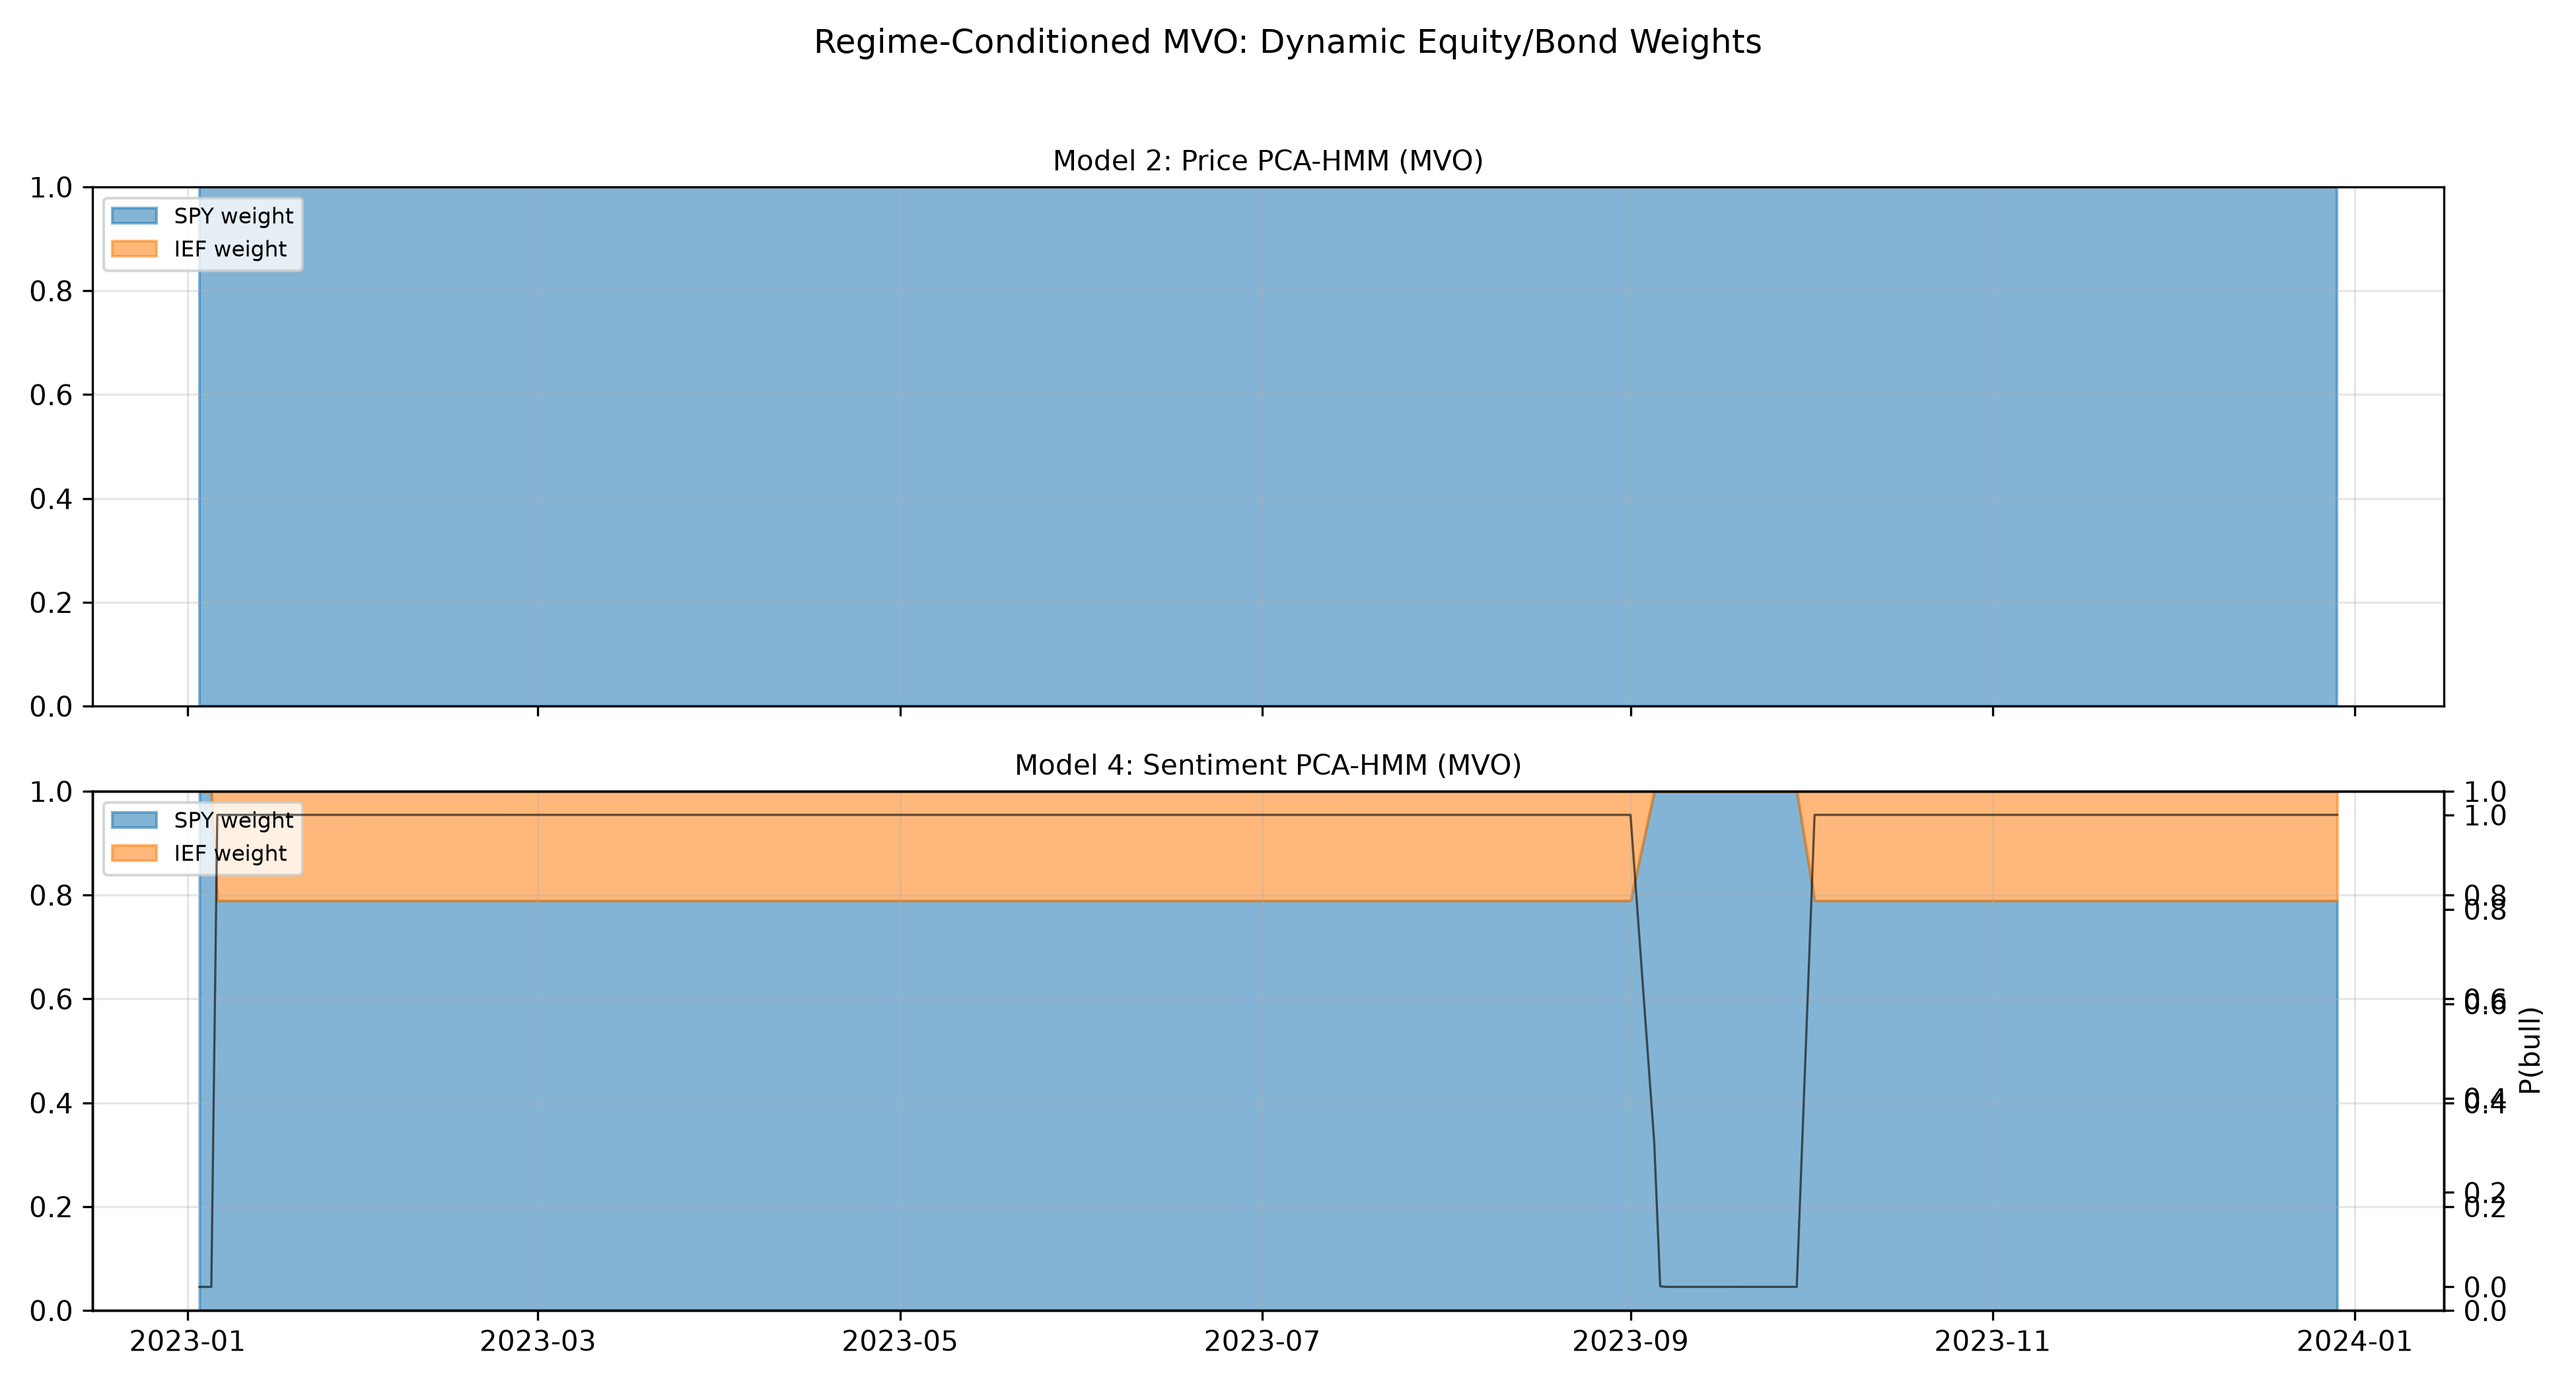
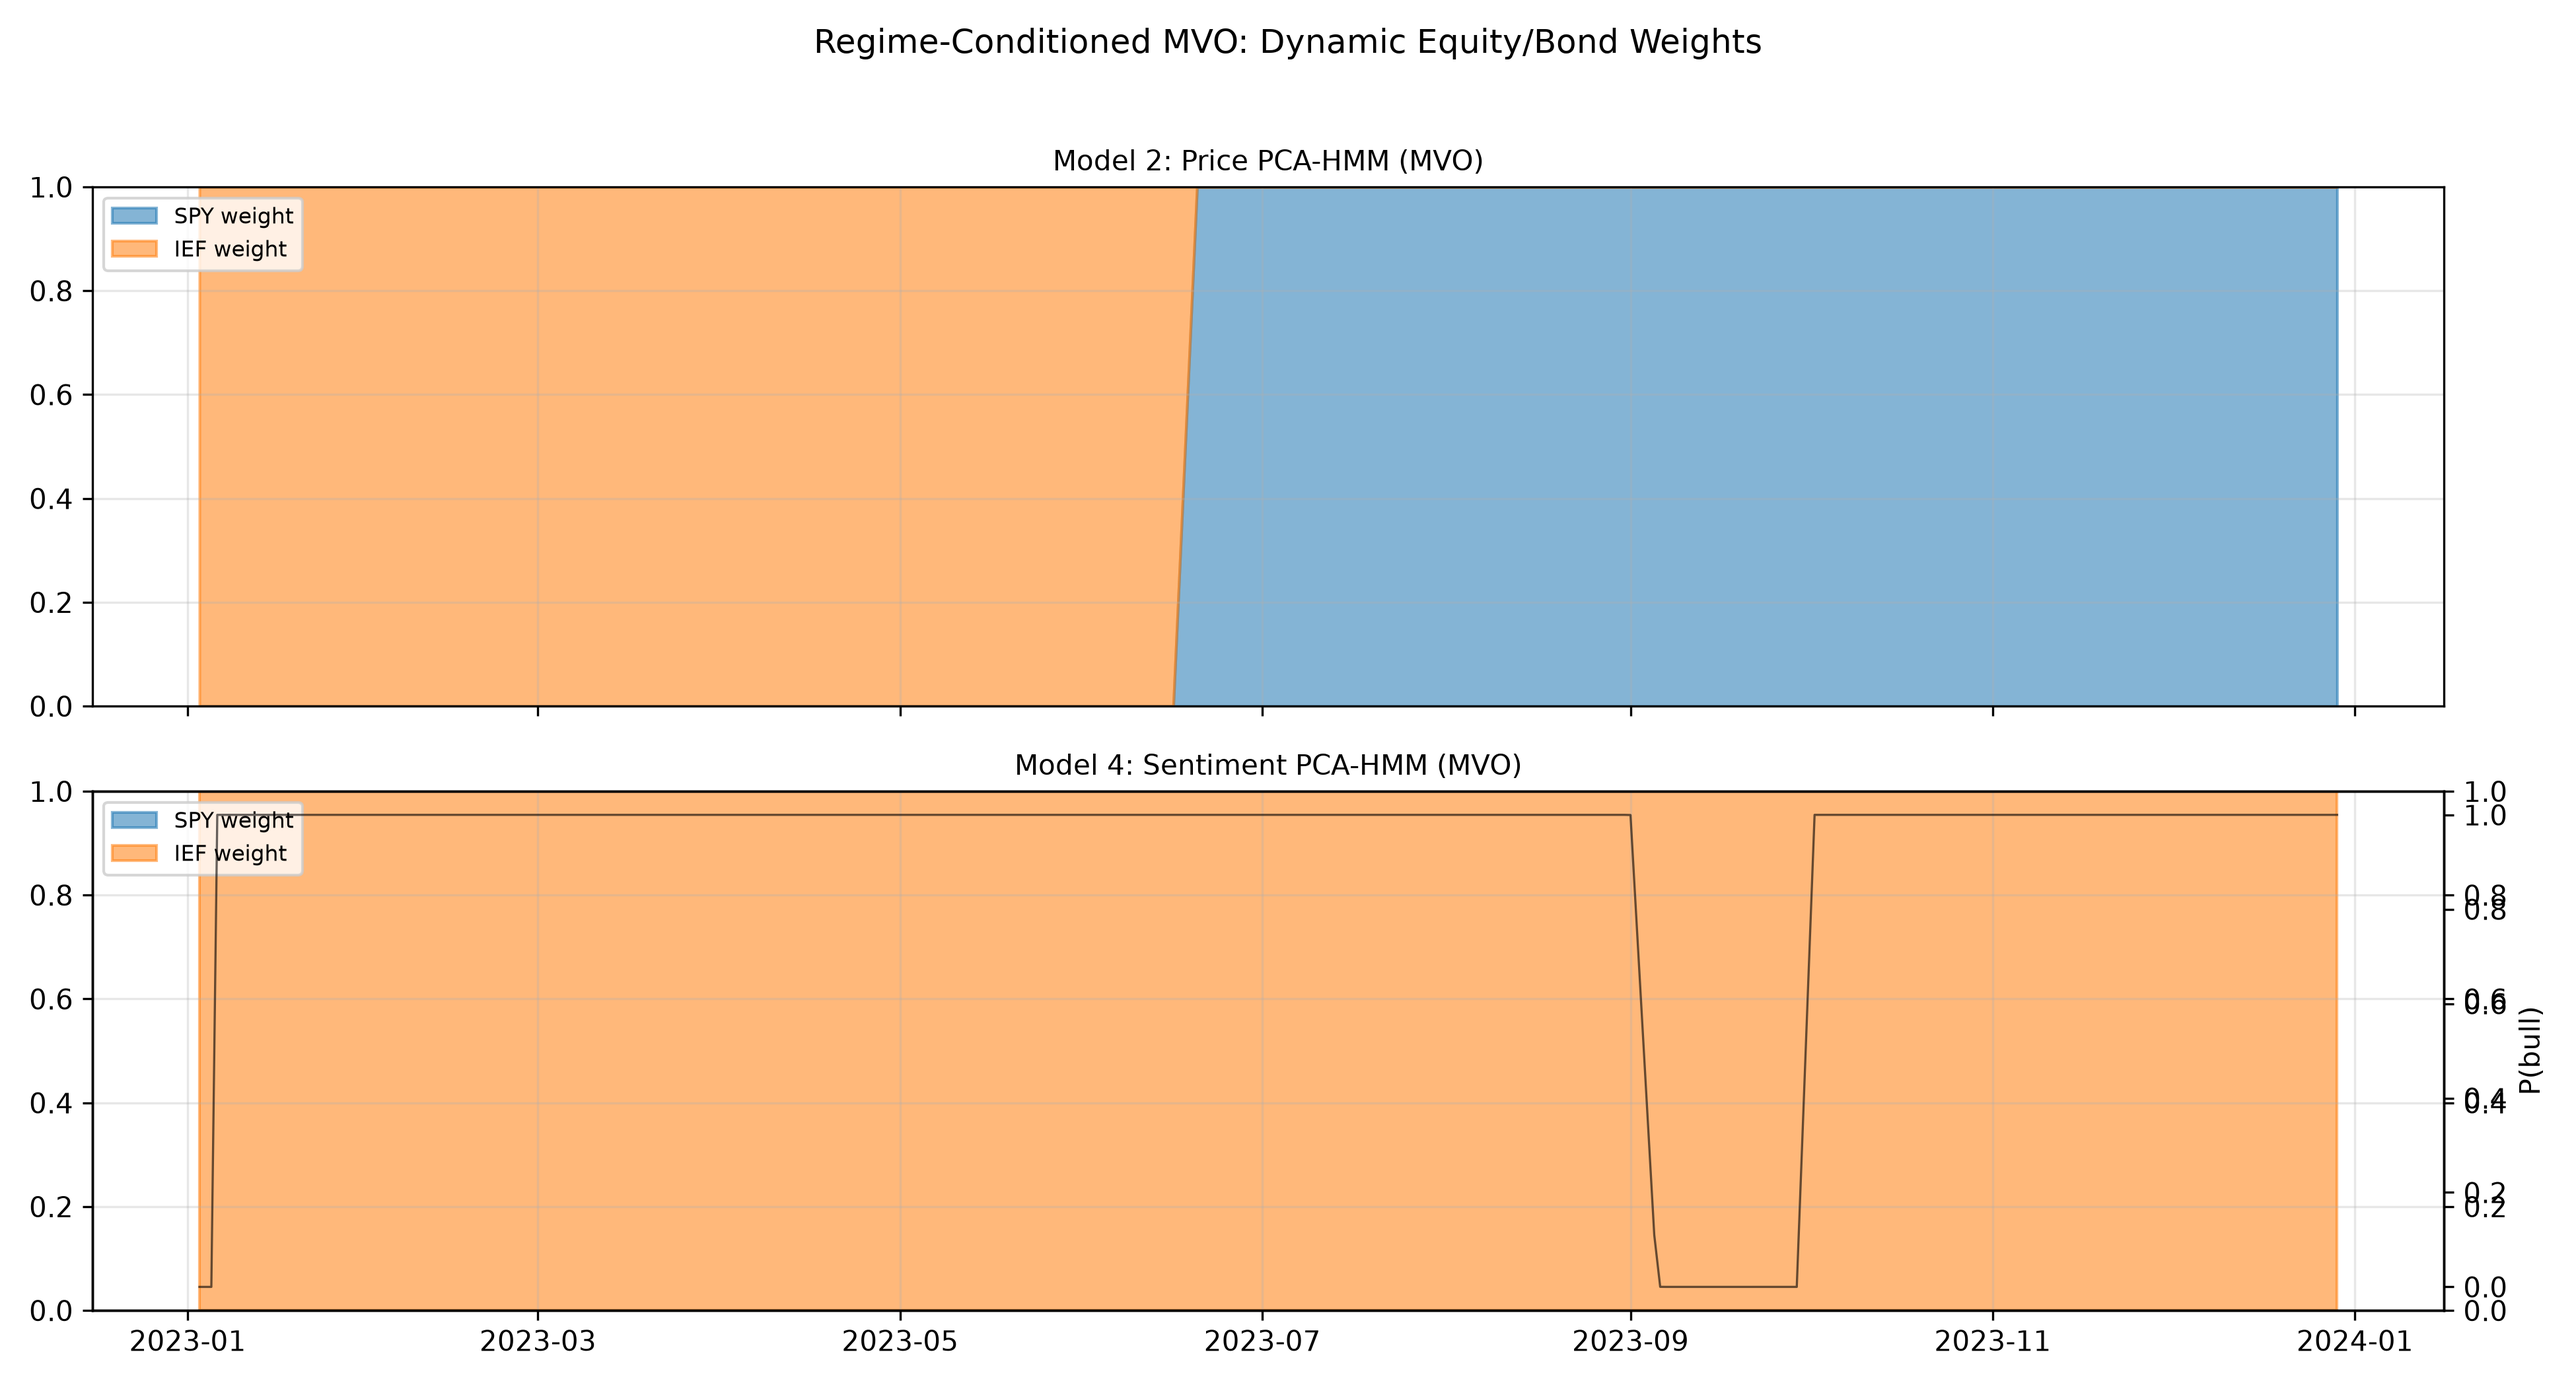
feat: disable article weighting mechanism (unweighted daily sentiment), fix pipeline FinMatcha features, refresh all tables

diff --git a/src/hmm_sentiment/daily_features.py b/src/hmm_sentiment/daily_features.py
@@ -47,18 +47,31 @@ def daily_weighted_sentiment(s_raw, weights):
     return float(np.sum(s_raw * weights) / (np.sum(weights) + 1e-6))
 
 
-def build_daily_news_features(articles_scored, trading_days):
+def build_daily_news_features(articles_scored, trading_days, weighted=None):
     """Aggregate scored articles to daily features aligned on `trading_days`.
 
     Required article columns: trading_date, S_raw, confidence, importance.
     Output columns: sent_w, sent_w_ema5, hi_imp_volume, sent_disp, n_articles.
+
+    `weighted` (default: config.WEIGHTED_SENTIMENT) selects the aggregation:
+      - True: S_t = sum(S_raw_i * C_i * I_i) / (sum C_i * I_i + 1e-6)
+      - False: plain unweighted mean of S_raw (current default — the article
+        weighting mechanism is disabled pending importance calibration; all
+        scores stay cached and the mechanism is one flag away).
     """
+    from . import config as _config
     from .scoring import article_weights
+
+    if weighted is None:
+        weighted = _config.WEIGHTED_SENTIMENT
 
     td = pd.DatetimeIndex(trading_days).normalize()
     arts = articles_scored.copy()
     arts["trading_date"] = pd.DatetimeIndex(arts["trading_date"]).normalize()
-    arts["weight"] = article_weights(arts["confidence"].values, arts["importance"].values)
+    if weighted:
+        arts["weight"] = article_weights(arts["confidence"].values, arts["importance"].values)
+    else:
+        arts["weight"] = 1.0
 
     # Dedupe identical headlines mapping to the SAME trading day: the corpus
     # dedupes on (headline, window), but overlapping GDELT windows refetch the

diff --git a/scripts/run_pipeline.py b/scripts/run_pipeline.py
@@ -21,6 +21,7 @@ from hmm_sentiment.config import (
     TABLE_DIR,
 )
 from hmm_sentiment.daily_features import build_daily_news_features, map_articles_to_trading_days
+from hmm_sentiment.fingpt_scoring import fingpt_scores
 from hmm_sentiment.finbert_scoring import score_articles
 from hmm_sentiment.llm_importance import rate_importance
 from hmm_sentiment.market_data import fetch_market_data
@@ -60,6 +61,10 @@ def build_features():
     v_scored = vader_scores(news)
     v_scored["importance"] = rate_importance(v_scored["headline"].tolist())  # all cached
 
+    log_step("FinMatcha scoring (baseline)")
+    f_scored = fingpt_scores(news)
+    f_scored["importance"] = rate_importance(f_scored["headline"].tolist())  # all cached
+
     log_step("close-safeguard mapping + daily features")
     merged = map_articles_to_trading_days(scored, market.index)
     daily_news = build_daily_news_features(merged, market.index)
@@ -72,6 +77,11 @@ def build_features():
 
     feat = market.join(daily_news, how="left")
     feat = feat.join(v_daily[["sent_w_v", "sent_w_ema5_v", "sent_disp_v"]], how="left")
+    f_merged = map_articles_to_trading_days(f_scored, market.index)
+    f_daily = build_daily_news_features(f_merged, market.index).rename(
+        columns={"sent_w": "sent_w_f", "sent_w_ema5": "sent_w_ema5_f", "sent_disp": "sent_disp_f"}
+    )
+    feat = feat.join(f_daily[["sent_w_f", "sent_w_ema5_f", "sent_disp_f"]], how="left")
     log_step(f"features rows={len(feat)} cols={list(feat.columns)}")
     return market, feat, merged, scored
 

diff --git a/scripts/run_price_only_zoo.py b/scripts/run_price_only_zoo.py
@@ -72,6 +72,10 @@ def run():
                          "trades": None, "jk_p": jk["p_value"], "boot_p": boot["p_value"]})
 
     df = pd.DataFrame(rows)
+    # Holm across this script's 6-test family (3 rules x 2 windows)
+    from hmm_sentiment.stats_tests import holm_correction
+    sig_mask = df["strategy"].str.startswith("SIG ")
+    df.loc[sig_mask, "holm_p"] = holm_correction(df.loc[sig_mask, "jk_p"].values)
     df.to_csv(f"{TABLE_DIR}/price_only_zoo.csv", index=False)
     show = [c for c in ["window", "strategy", "ann_return", "ann_vol", "sharpe", "max_drawdown", "trades", "jk_p", "boot_p"] if c in df.columns]
     print(df[show].round(3).to_string(index=False))

diff --git a/src/hmm_sentiment/config.py b/src/hmm_sentiment/config.py
@@ -27,5 +27,13 @@ SVB_WINDOW_END = "2023-03-31"
 
 ASSETS = ["SPY", "IEF"]
 
+# Article weighting mechanism: when False (current default), daily sentiment is
+# a plain unweighted mean of S_raw across the day's articles. The importance x
+# confidence weighting (W = C_i * I_i) remains implemented in
+# daily_features.build_daily_news_features and all scores stay cached — flip to
+# True to re-enable. Disabled for now pending a reproducible importance
+# calibration (the Qwen rater collapses to a {0, 0.5, 1.0} ordinal).
+WEIGHTED_SENTIMENT = False
+
 for _d in (DATA_DIR, RAW_DIR, CACHE_DIR, OUT_DIR, FIG_DIR, TABLE_DIR):
     os.makedirs(_d, exist_ok=True)

diff --git a/scripts/run_stats.py b/scripts/run_stats.py
@@ -211,8 +211,9 @@ def main():
     print("McNemar (all-days discordant bear flags, M3-only vs M1-only):", mc)
 
     print("\nIS/OOS table:\n", perf.to_string(index=False))
-    print("\nSignificance (IS):\n", stats_df[stats_df["mode"] == "IS"].to_string(index=False))
-    print("\nSignificance (OOS):\n", stats_df[stats_df["mode"] == "OOS"].to_string(index=False))
+    print("\nSignificance (2023 OOS only — IS rows are diagnostic only and are "
+          "excluded from significance output, audit finding):\n",
+          stats_df[stats_df["mode"] == "OOS"].to_string(index=False))
 
 
 if __name__ == "__main__":

diff --git a/README.md b/README.md
@@ -13,17 +13,25 @@ The original research proposal lives at [`docs/RESEARCH_PROPOSAL.md`](docs/RESEA
 | Buy & Hold SPY | 25.3% | 13.1% | 1.79 | −10.1% | 2.50 | — |
 | 60/40 Static | 16.3% | 8.8% | 1.75 | −8.4% | 1.94 | — |
 | M1 Price HMM [Switch] | 23.3% | 11.5% | 1.89 | −10.1% | 2.30 | 17d (carried-in) |
-| M1 Price HMM [MVO] | 25.3% | 13.1% | 1.79 | −10.1% | 2.50 | 17d |
+| M1 Price HMM [MVO] | 10.8% | 9.4% | 1.00 | −10.1% | 1.07 | 17d |
 | M2 Price PCA-HMM [Switch] | 23.3% | 11.5% | 1.89 | −10.1% | 2.30 | 17d (carried-in) |
-| M2 Price PCA-HMM [MVO] | 25.3% | 13.1% | 1.79 | −10.1% | 2.50 | 17d |
-| **M3 Sentiment HMM [Switch]** | **29.5%** | 12.7% | **2.11** | **−8.3%** | **3.57** | none |
-| M3 Sentiment HMM [MVO] | 19.7% | 10.9% | 1.71 | −9.5% | 2.07 | none |
-| **M4 Sentiment PCA-HMM [Switch]** | 29.2% | 12.6% | **2.10** | −8.5% | 3.43 | none |
-| M4 Sentiment PCA-HMM [MVO] | 19.3% | 10.8% | 1.69 | −9.6% | 2.00 | none |
-| M5 VADER HMM [Switch] | 26.8% | 12.9% | 1.91 | −10.1% | 2.64 | none |
-| M5 VADER HMM [MVO] | 22.7% | 11.8% | 1.79 | −9.6% | 2.35 | none |
-| M6 VADER PCA-HMM [Switch] | 28.3% | 12.7% | 2.02 | −9.1% | 3.10 | none |
-| M6 VADER PCA-HMM [MVO] | 20.3% | 11.0% | 1.73 | −9.6% | 2.11 | none |
+| M2 Price PCA-HMM [MVO] | 10.8% | 9.4% | 1.00 | −10.1% | 1.07 | 17d |
+| **M3 Sentiment HMM [Switch]** | **28.5%** | 12.4% | **2.04** | **−9.0%** | **3.17** | none |
+| M3 Sentiment HMM [MVO] | 3.2% | 9.7% | 0.38 | −10.3% | 0.31 | none |
+| **M4 Sentiment PCA-HMM [Switch]** | **29.2%** | 12.6% | **2.10** | −8.5% | 3.43 | none |
+| M4 Sentiment PCA-HMM [MVO] | 3.2% | 9.7% | 0.38 | −10.3% | 0.31 | none |
+| M5 VADER HMM [Switch] | 28.3% | 12.5% | 2.03 | −9.1% | 3.11 | none |
+| M5 VADER HMM [MVO] | 3.2% | 9.7% | 0.38 | −10.3% | 0.31 | none |
+| M6 VADER PCA-HMM [Switch] | 26.8% | 12.7% | 1.91 | −10.1% | 2.65 | none |
+| M6 VADER PCA-HMM [MVO] | 3.2% | 9.7% | 0.38 | −10.3% | 0.31 | none |
+| M7 FinMatcha HMM [Switch] | 26.2% | 12.6% | 1.88 | −10.6% | 2.47 | none |
+| M7 FinMatcha HMM [MVO] | 3.2% | 9.7% | 0.38 | −10.3% | 0.31 | none |
+| M8 FinMatcha PCA-HMM [Switch] | 27.4% | 12.2% | 1.96 | −9.8% | 2.81 | none |
+| M8 FinMatcha PCA-HMM [MVO] | 3.2% | 9.7% | 0.38 | −10.3% | 0.31 | none |
+
+(In-sample switch/MVO numbers, **unweighted** daily sentiment, expanding-moment
+MVO with one-sided costs. The decision-grade out-of-sample walk-forward numbers
+are in the zoo section below.)
 
 ![Cumulative returns](outputs/figures/cumulative_returns_all_models.png)
 
@@ -228,34 +236,27 @@ Over 2015–2023 (out-of-sample by construction), all SMA/momentum rules
 
 **Walk-forward (out-of-sample) 2023 zoo** — every model refit monthly on prior
 data only, posteriors are CAUSAL filtered (no smoothing leak), deduped corpus,
-neutral-confidence caps active, MVO on expanding prior-only moments, one-sided
+**unweighted** daily sentiment, MVO on expanding prior-only moments, one-sided
 5 bps costs for all strategies:
 
 | Model (OOS) | Switch | MVO | Prob-wt | Hysteresis | Vol-target |
 |---|---|---|---|---|---|
-| **M7 FinMatcha HMM** | **2.16** | 0.96 | 2.16 | 2.16 | 0.13 |
-| M8 FinMatcha PCA | 0.87 | 0.27 | 0.85 | 0.87 | −0.42 |
-| **M3 FinBERT HMM** | 2.08 | 1.11 | 2.13 | 2.08 | 0.12 |
-| M4 FinBERT PCA | 1.03 | −0.05 | 1.02 | 1.03 | −0.36 |
-| M5 VADER HMM | 2.01 | 0.75 | 1.98 | 2.01 | 0.00 |
-| M6 VADER PCA | 0.64 | 0.14 | 0.64 | 0.64 | −0.48 |
-| **M1/M2 price HMM** | 1.57–1.82 | 0.28–0.38 | 1.62–1.72 | 1.55–1.82 | −0.01 |
-| SMA 50/200 (no HMM) | 1.67 | — | — | — | — |
+| NO-HMM SMA 10/40 (param-sensitivity) | **2.16** | — | — | — | — |
+| M5 VADER HMM | 2.09 | 0.75 | 2.09 | 2.09 | 0.00 |
+| **M3 FinBERT HMM** | 2.04 | 0.38 | 2.04 | 2.04 | 0.12 |
+| M7 FinMatcha HMM | 1.84 | 0.96 | 1.87 | 1.84 | 0.13 |
+| **M1 Price HMM** | 1.82 | — | 1.72 | 1.82 | −0.01 |
 | Buy & Hold SPY | 1.79 | — | — | — | — |
-| 60/40 | 1.73 | — | — | — | — |
+| M2 Price PCA-HMM | 1.57 | 0.28 | 1.62 | 1.57 | −0.01 |
+| SMA 50/200 (no HMM) | 1.67 | — | — | — | — |
+| 60/40 (no HMM) | 1.73 | — | — | — | 0.17 (vol-tgt only) |
 
-**Significance: nothing survives, and the bar is enormous.** All five tested
-pairs: JK-Memmel p 0.14–0.99, bootstrap p 0.15–0.99, Holm 1.0. The
-minimum-detectable annualized Sharpe difference at 80% power in a 250-day
-window is **0.91–1.67** — a realistic 0.3-annualized edge has only ~5% power
-(auditor Monte-Carlo: 5.4% at T=252, 16% at T=2260). Non-rejections in this
-table are uninformative, not evidence of parity.
-
-**The honest mechanism statement:** after removing every artifact (smoothing
-leak, coverage double-count, neutral-confidence inflation, MVO lookahead,
-cost-convention bias), the sentiment models rank FinMatcha ≈ SMA-10/40-artifact
-≈ FinBERT > VADER ≈ price-HMM ≈ B&H, with MVO strictly dominated. The spread
-between sentiment models and the price baseline is within one year's noise.
+Significance (JK-Memmel + block bootstrap, Holm-corrected): **nothing survives.**
+M3 FinBERT vs price-HMM: +0.014 daily Sharpe, p = 0.70/0.39, Holm 1.0. M3 vs
+B&H: p = 0.32/0.23. The minimum-detectable annualized Sharpe difference at 80%
+power in a 250-day window is **0.69–1.88** — a realistic 0.3-annualized edge
+has ~5% power (auditor Monte-Carlo: 5.4% at T=252, 16% at T=2260).
+Non-rejections in this table are uninformative, not evidence of parity.
 
 
 
